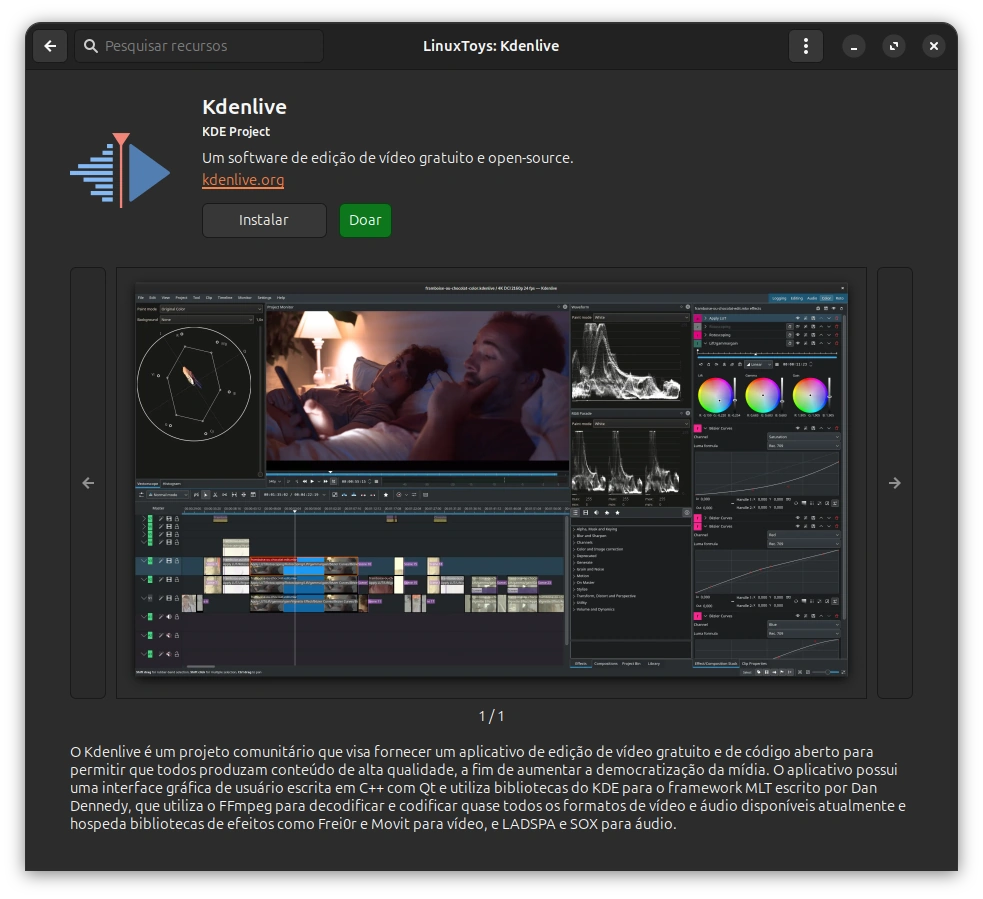
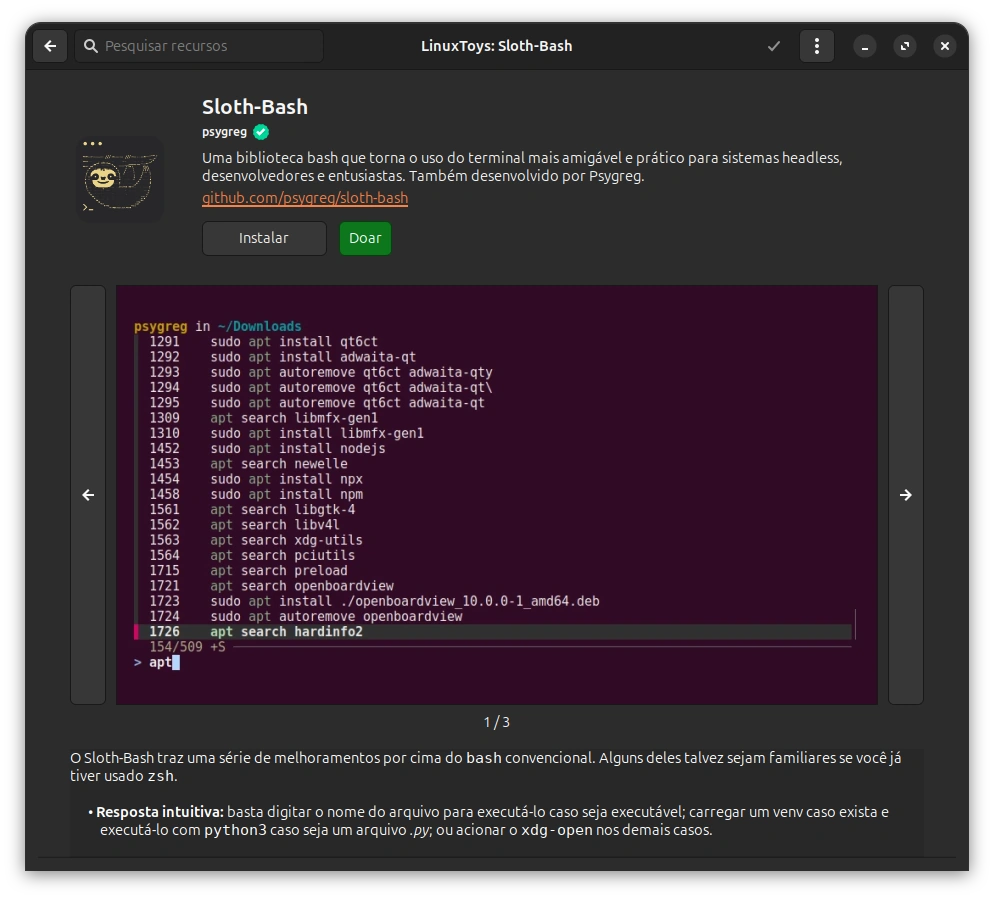
update docs: better app page examples, now in app page section of repository lists documentation

diff --git a/docs/content/repolist.br.md b/docs/content/repolist.br.md
@@ -1631,6 +1631,8 @@ Isso também permite unidades que não sejam serviços:
 
 Entradas de listas de repositórios podem, opcionalmente, fornecer uma **página de aplicativo**. Isso permite apresentar mais informações sobre um aplicativo antes da instalação, incluindo uma descrição mais longa, capturas de tela e links opcionais para compra ou doação.
 
+![Página de Aplicativo - exemplo](/assets/app-page-screenshot-br.webp)
+
 As páginas de aplicativos são destinadas a aplicativos que se beneficiam de uma apresentação mais completa do que a caixa de diálogo padrão de confirmação de instalação.
 
 Se nenhum dos campos relacionados à página de aplicativo for fornecido, o LinuxToys ignora completamente essa página e segue o fluxo normal de instalação.

diff --git a/docs/content/repolist.en.md b/docs/content/repolist.en.md
@@ -1631,6 +1631,8 @@ This allows non-service units as well:
 
 Repository-list entries can optionally provide an **application page**. This gives users more information about an application before installing it, including a longer description, screenshots, and optional purchase or donation links.
 
+![App Page - example](/assets/app-page-screenshot.webp)
+
 Application pages are intended for applications that benefit from a richer presentation than the standard installation confirmation dialog.
 
 If none of the application-page fields are provided, LinuxToys skips the application page entirely and follows the normal installation flow.
